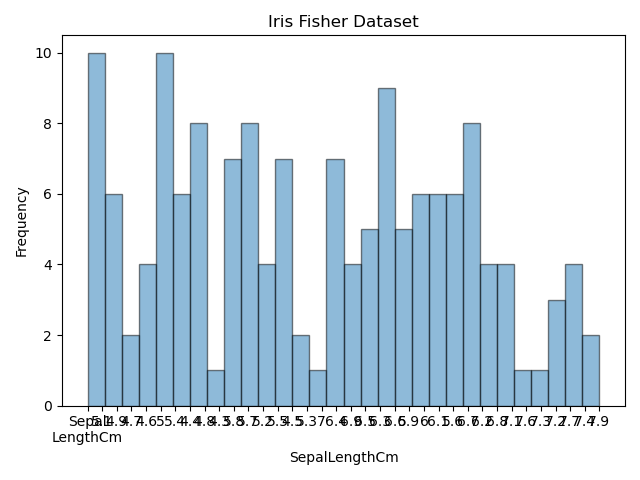
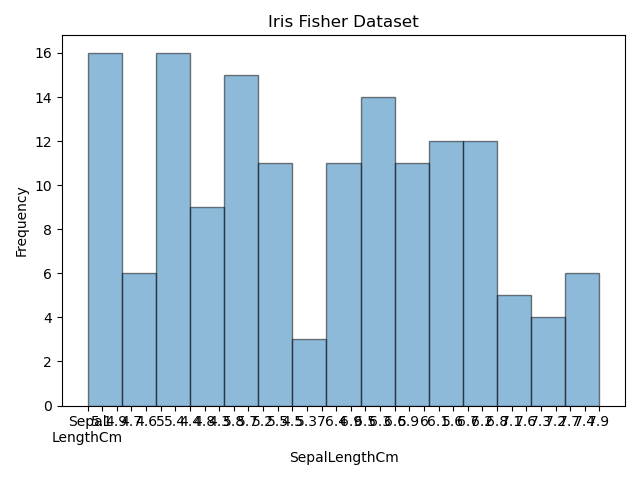
Iris Data

diff --git a/analysis.py b/analysis.py
@@ -7,11 +7,12 @@ import numpy as np
 import matplotlib.pyplot as plt
 
 """Read in the Iris data set"""
-iris = pd.read_csv("Iris.csv", names=["SepalLengthCm", "SepalWidthCm", "PetalLengthCm", "PetalWidthCm", "Species]"])
+iris = pd.read_csv("Iris.csv", names=["SepalLengthCm", "SepalWidthCm", "PetalLengthCm", "PetalWidthCm", "Species"])
 
 
 """Create a summary of the data set using the describe method and output the statistical data into a .txt file"""
-stat_summary = iris.describe()
+iris_species = iris.groupby('Species')
+stat_summary = iris_species.describe().T
 
 with open('Iris Data Summary.txt', 'w') as f:
     f.write(str(stat_summary))
@@ -19,13 +20,13 @@ with open('Iris Data Summary.txt', 'w') as f:
 hist_params = {'bins': 15, 'edgecolor': 'black', 'alpha': 0.5}
 
 # Generate a histogram of each variable and save it to a PNG file
-for col in iris.columns[:-1]:  # Skip the last column (class)
+for col in iris.columns[:-1]:  # Skip the last column (Species)
     plt.hist(iris[col], **hist_params)
     plt.title('Iris Fisher Dataset')
     plt.xlabel(col)
     plt.ylabel('Frequency')
-    plt.tight_layout()  # Add padding to the plot
+    plt.tight_layout()  
     plt.savefig(f'{col}.png')
-    plt.clf()  # Clear the figure for the next plot
+    plt.clf()  
 
 
